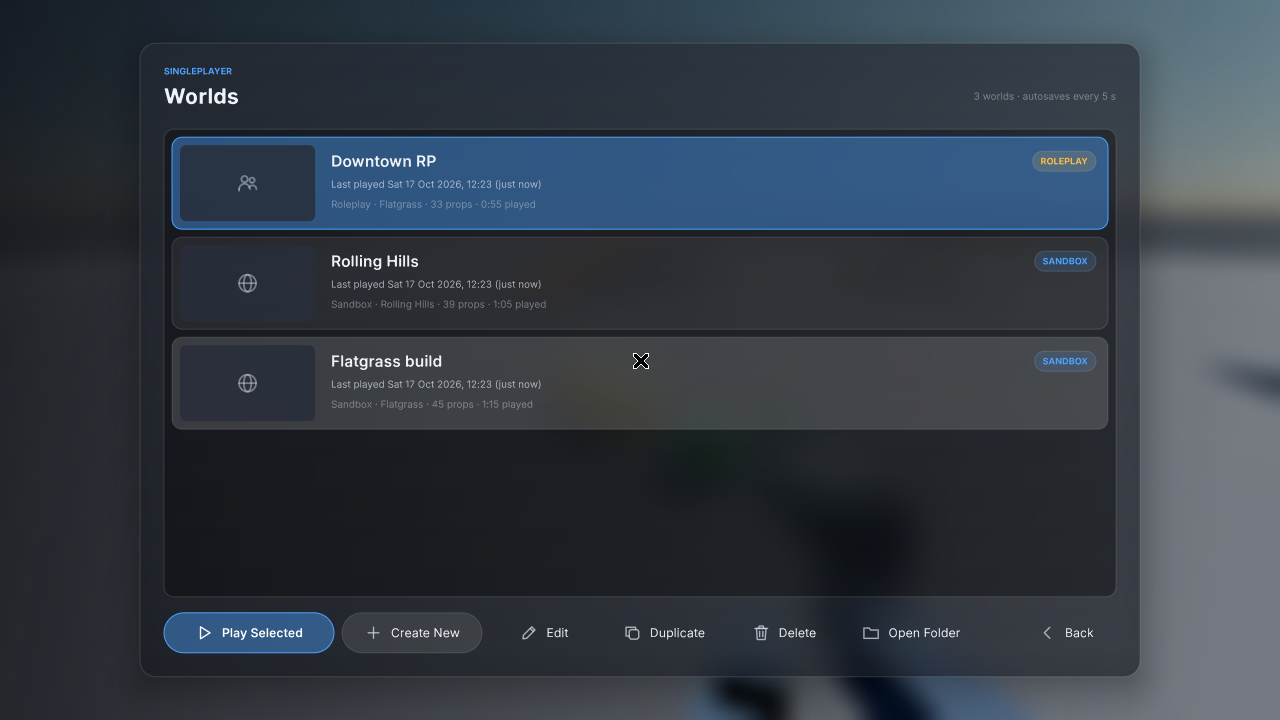
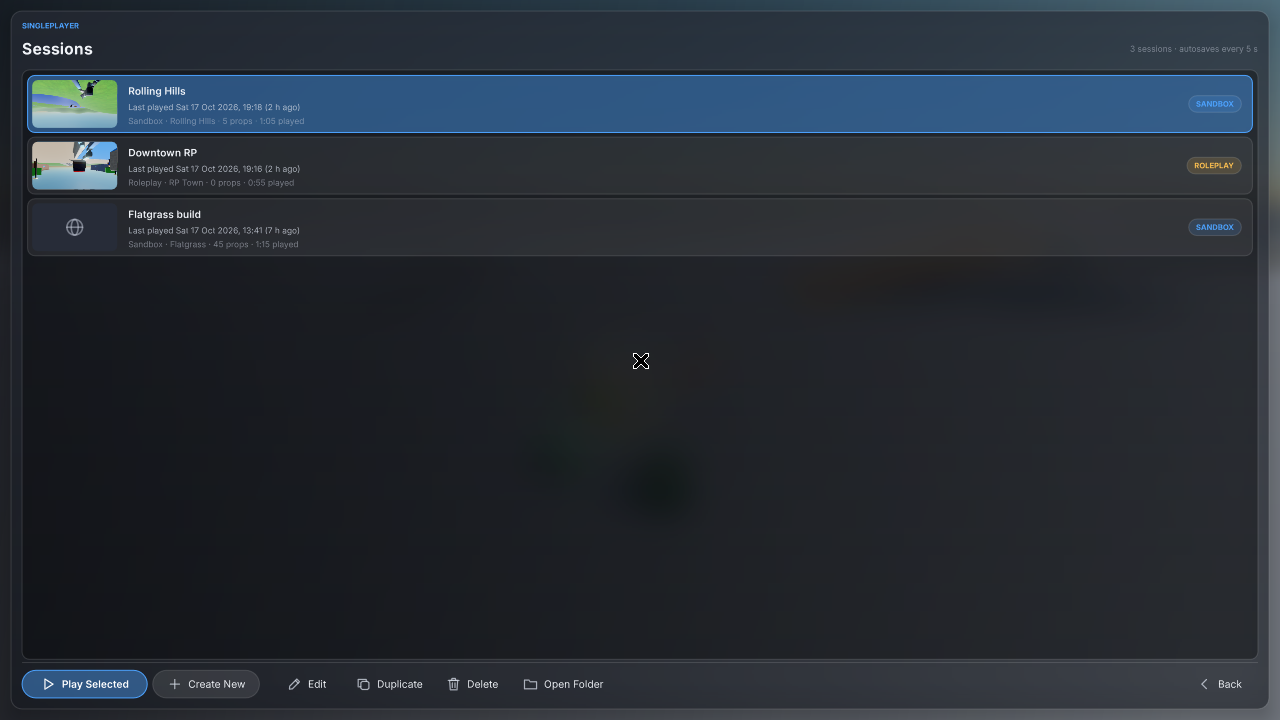
Rename user-facing Worlds to Sessions (menus, buttons, toasts, loading screen, README); save folders and world.json unchanged for compatibility

diff --git a/src/WorldsMenu.cs b/src/WorldsMenu.cs
@@ -5,7 +5,7 @@ using Color = System.Drawing.Color;
 
 namespace Sandbox;
 
-/// <summary>Singleplayer → Worlds list, Create New World, the loading screen and the roleplay F4 menu.</summary>
+/// <summary>Singleplayer → Sessions list, Create New Session, the loading screen and the roleplay F4 menu.</summary>
 public sealed partial class Menus
 {
     private List<WorldEntry>? _worlds;
@@ -40,8 +40,8 @@ public sealed partial class Menus
         float x = mg, y = mg + (1f - Ui.Alpha) * Theme.S(20), pad = Theme.S(Theme.Lg);
         Ui.Glass(paper, "wl_panel", x, y, pw, ph, strong: true).IsNotInteractable();
         Ui.Text(paper, "wl_kick", x + pad, y + pad - Theme.S(4), pw, Theme.S(16), "SINGLEPLAYER", Theme.Micro, Theme.Accent, Theme.Bold);
-        Ui.Text(paper, "wl_title", x + pad, y + pad + Theme.S(12), pw, Theme.S(34), "Worlds", Theme.Heading, Theme.Text, Theme.Bold);
-        Ui.Text(paper, "wl_count", x + pad, y + pad + Theme.S(12), pw - 2 * pad, Theme.S(34), $"{_worlds.Count} world{(_worlds.Count == 1 ? "" : "s")} · autosaves every {SandboxGame.AutosaveInterval:0} s",
+        Ui.Text(paper, "wl_title", x + pad, y + pad + Theme.S(12), pw, Theme.S(34), "Sessions", Theme.Heading, Theme.Text, Theme.Bold);
+        Ui.Text(paper, "wl_count", x + pad, y + pad + Theme.S(12), pw - 2 * pad, Theme.S(34), $"{_worlds.Count} session{(_worlds.Count == 1 ? "" : "s")} · autosaves every {SandboxGame.AutosaveInterval:0} s",
             Theme.Caption, Theme.TextFaint, null, TextAlignment.MiddleRight);
 
         float bh = Theme.S(30), footer = bh + Theme.S(18);
@@ -55,7 +55,7 @@ public sealed partial class Menus
         if (_worlds.Count == 0)
         {
             Ui.Icon(paper, "wl_empty_ic", x + pad + lw / 2f - Theme.S(20), ly + lh / 2f - Theme.S(54), Theme.S(40), Icon.Globe, Theme.TextFaint);
-            Ui.Text(paper, "wl_empty", x + pad, ly + lh / 2f - Theme.S(6), lw, Theme.S(24), "No worlds yet", Theme.Title, Theme.TextMuted, Theme.SemiBold, TextAlignment.MiddleCenter);
+            Ui.Text(paper, "wl_empty", x + pad, ly + lh / 2f - Theme.S(6), lw, Theme.S(24), "No sessions yet", Theme.Title, Theme.TextMuted, Theme.SemiBold, TextAlignment.MiddleCenter);
             Ui.Text(paper, "wl_empty2", x + pad, ly + lh / 2f + Theme.S(20), lw, Theme.S(20), "Create one to start building. It saves itself as you play.", Theme.Body, Theme.TextFaint, null, TextAlignment.MiddleCenter);
         }
         using (paper.Box("wl_list").PositionType(PositionType.SelfDirected).Position(x + pad, ly).Size(lw, lh).Clip()
@@ -157,8 +157,8 @@ public sealed partial class Menus
         float bh = Theme.S(38);
         if (_modal == "rename")
         {
-            Ui.Text(paper, "wm_t", mx + pad, my + pad, mw, Theme.S(26), "Rename world", Theme.Title, Theme.Text, Theme.Bold);
-            TextInput(paper, "wm_name", mx + pad, my + pad + Theme.S(40), mw - 2 * pad, Theme.S(40), _renameText, v => _renameText = v, "World name");
+            Ui.Text(paper, "wm_t", mx + pad, my + pad, mw, Theme.S(26), "Rename session", Theme.Title, Theme.Text, Theme.Bold);
+            TextInput(paper, "wm_name", mx + pad, my + pad + Theme.S(40), mw - 2 * pad, Theme.S(40), _renameText, v => _renameText = v, "Session name");
             Ui.Button(paper, "wm_ok", mx + mw - pad - Theme.S(110), my + mh - pad - bh, Theme.S(110), bh, "Save", () => g.Enqueue(() =>
             {
                 try { var r = Worlds.Rename(sel, _renameText); RefreshWorlds(); _selected = Math.Max(0, _worlds!.FindIndex(x => x.Folder == r.Folder)); }
@@ -168,7 +168,7 @@ public sealed partial class Menus
         }
         else
         {
-            Ui.Text(paper, "wm_t", mx + pad, my + pad, mw, Theme.S(26), "Delete world?", Theme.Title, Theme.Text, Theme.Bold);
+            Ui.Text(paper, "wm_t", mx + pad, my + pad, mw, Theme.S(26), "Delete session?", Theme.Title, Theme.Text, Theme.Bold);
             Ui.Paragraph(paper, "wm_p", mx + pad, my + pad + Theme.S(34), mw - 2 * pad, Theme.S(44), $"\"{sel.Meta.Name}\" and all of its saves will be permanently deleted. This can't be undone.", Theme.Body, Theme.TextMuted);
             Ui.Button(paper, "wm_ok", mx + mw - pad - Theme.S(120), my + mh - pad - bh, Theme.S(120), bh, "Delete", () => g.Enqueue(() =>
             {
@@ -188,12 +188,12 @@ public sealed partial class Menus
             .TextField(value, Theme.Regular, set, Theme.ToVector(Theme.Text), placeholder, Theme.ToVector(Theme.TextFaint));
     }
 
-    // ---------------------------------------------------------------- Create New World
+    // ---------------------------------------------------------------- Create New Session
 
     private void BeginCreate()
     {
         int n = (_worlds?.Count ?? 0) + 1;
-        _draft = new SessionMeta { Name = $"New World {n}" };
+        _draft = new SessionMeta { Name = $"New Session {n}" };
         _customPath = ""; _createError = null;
         Go(Screen.CreateWorld);
     }
@@ -204,15 +204,15 @@ public sealed partial class Menus
         float x = mg, y = mg + (1f - Ui.Alpha) * Theme.S(20), pad = Theme.S(Theme.Lg);
         Ui.Glass(paper, "cw_panel", x, y, pw, ph, strong: true).IsNotInteractable();
         Ui.Text(paper, "cw_kick", x + pad, y + pad - Theme.S(4), pw, Theme.S(16), "SINGLEPLAYER", Theme.Micro, Theme.Accent, Theme.Bold);
-        Ui.Text(paper, "cw_title", x + pad, y + pad + Theme.S(12), pw, Theme.S(34), "Create New World", Theme.Heading, Theme.Text, Theme.Bold);
+        Ui.Text(paper, "cw_title", x + pad, y + pad + Theme.S(12), pw, Theme.S(34), "Create New Session", Theme.Heading, Theme.Text, Theme.Bold);
 
         float colW = (pw - 2 * pad - Theme.S(28)) / 2f, lx = x + pad, rx = lx + colW + Theme.S(28);
         float cy = y + pad + Theme.S(54);
         SessionMeta d = _draft; WorldModifiers m = d.Modifiers;
 
         void Label(string id, float px, float py, string t) => Ui.Text(paper, id, px, py, colW, Theme.S(18), t, Theme.Caption, Theme.TextMuted, Theme.SemiBold);
-        Label("cw_l_name", lx, cy, "World name");
-        TextInput(paper, "cw_name", lx, cy + Theme.S(20), colW, Theme.S(32), d.Name, v => d.Name = v, "My world");
+        Label("cw_l_name", lx, cy, "Session name");
+        TextInput(paper, "cw_name", lx, cy + Theme.S(20), colW, Theme.S(32), d.Name, v => d.Name = v, "My session");
         cy += Theme.S(64);
         Label("cw_l_mode", lx, cy, "Game mode");
         Ui.Segmented(paper, "cw_mode", lx, cy + Theme.S(20), colW, ["Sandbox", "Roleplay"], d.Mode == "Roleplay" ? 1 : 0, v => d.Mode = v == 1 ? "Roleplay" : "Sandbox");
@@ -231,7 +231,7 @@ public sealed partial class Menus
             Ui.Button(paper, "cw_browse", lx + colW - Theme.S(100), cy, Theme.S(100), Theme.S(40), _browsing ? "…" : "Browse…", () => Browse(g), icon: Icon.Folder, enabled: !_browsing);
             bool okExt = MapBuilder.ImportExtensions.Contains(Path.GetExtension(_customPath).ToLowerInvariant());
             Ui.Text(paper, "cw_path_h", lx, cy + Theme.S(46), colW, Theme.S(18),
-                _customPath.Length == 0 ? "glb, gltf, fbx, obj or vrm. It's copied into the world folder." : !File.Exists(_customPath) ? "File not found" : okExt ? "Ready to import (static mesh colliders are generated)" : "Unsupported file type",
+                _customPath.Length == 0 ? "glb, gltf, fbx, obj or vrm. It's copied into the session folder." : !File.Exists(_customPath) ? "File not found" : okExt ? "Ready to import (static mesh colliders are generated)" : "Unsupported file type",
                 Theme.Caption, _customPath.Length > 0 && (!File.Exists(_customPath) || !okExt) ? Theme.Danger : Theme.TextFaint);
         }
 
@@ -274,14 +274,14 @@ public sealed partial class Menus
         float bh = Theme.S(32), fy = y + ph - pad - bh;
         Ui.Rect(paper, "cw_footer_rule", x + pad, fy - Theme.S(10), pw - 2 * pad, 1f, Theme.Border);
         if (_createError is not null) Ui.Text(paper, "cw_err", x + pad, fy - Theme.S(28), pw - 2 * pad, Theme.S(20), _createError, Theme.Caption, Theme.Danger, Theme.SemiBold);
-        Ui.Button(paper, "cw_create", x + pw - pad - Theme.S(150), fy, Theme.S(150), bh, "Create World", () => g.Enqueue(() => Create(g)), selected: true, icon: Icon.Check, radius: bh / 2f);
+        Ui.Button(paper, "cw_create", x + pw - pad - Theme.S(150), fy, Theme.S(150), bh, "Create Session", () => g.Enqueue(() => Create(g)), selected: true, icon: Icon.Check, radius: bh / 2f);
         Ui.Button(paper, "cw_cancel", x + pw - pad - Theme.S(246), fy, Theme.S(90), bh, "Cancel", () => Go(Screen.Worlds), ghost: true, radius: bh / 2f);
     }
 
     private void Create(SandboxGame g)
     {
         _draft.Name = _draft.Name.Trim();
-        if (_draft.Name.Length == 0) { _createError = "Give the world a name."; return; }
+        if (_draft.Name.Length == 0) { _createError = "Give the session a name."; return; }
         string? src = null;
         if (_draft.Map == "custom")
         {
@@ -295,7 +295,7 @@ public sealed partial class Menus
             RefreshWorlds();
             g.EnterSession(we);
         }
-        catch (Exception e) { _createError = $"Couldn't create the world: {e.Message}"; }
+        catch (Exception e) { _createError = $"Couldn't create the session: {e.Message}"; }
     }
 
     /// <summary>Native file picker on a background task (zenity/kdialog on Linux, osascript on macOS, PowerShell on Windows).</summary>
@@ -346,7 +346,7 @@ public sealed partial class Menus
     [
         "Hold Q to open the spawn menu. Drag anything you spawn with the physics gun.",
         "Right-click with the physics gun to freeze a prop in place.",
-        "The world autosaves every few seconds. Your contraptions keep moving when you come back.",
+        "The session autosaves every few seconds. Your contraptions keep moving when you come back.",
         "Hold C on a prop to change its colour, material and mass.",
         "Press Z to undo your last spawn or weld.",
         "In Roleplay, press F4 to pick a job or buy a money printer.",
@@ -368,7 +368,7 @@ public sealed partial class Menus
 
         float cx = w / 2f, by = h * 0.62f, bw = MathF.Min(Theme.S(560), w * 0.7f);
         DrawLogo(paper, cx - Theme.S(32), h * 0.24f, Theme.S(64), "ld_logo", (float)(l?.Elapsed ?? 0f));
-        string name = g.Session?.Meta.Name ?? "World";
+        string name = g.Session?.Meta.Name ?? "Session";
         Ui.Text(paper, "ld_name", 0, h * 0.24f + Theme.S(80), w, Theme.S(40), name, Theme.Heading + 6, Theme.Text, Theme.Bold, TextAlignment.MiddleCenter);
         if (g.Session is { } s)
             Ui.Text(paper, "ld_sub", 0, h * 0.24f + Theme.S(122), w, Theme.S(20), $"{s.Meta.Mode} · {MapName(s.Meta)} · {s.Meta.PropCount} props", Theme.Body, Theme.TextMuted, null, TextAlignment.MiddleCenter);

diff --git a/src/Menus.cs b/src/Menus.cs
@@ -74,7 +74,7 @@ public sealed partial class Menus
         DrawLogo(paper, x, y + Theme.S(6), logo, "mn_logo", (float)Prowl.Runtime.Time.UnscaledTotalTime);
         Ui.Text(paper, "mn_title", x + logo + Theme.S(16), y, w, Theme.S(76), "Sandbox", Theme.Display, Theme.Text, Theme.Bold);
         Ui.Text(paper, "mn_sub", x, y + Theme.S(76), w, Theme.S(22),
-            paused ? $"{g.Session?.Meta.Name ?? "World"} · {g.Props.Props.Count} props · physics paused" : "Build, break and mess around.",
+            paused ? $"{g.Session?.Meta.Name ?? "Session"} · {g.Props.Props.Count} props · physics paused" : "Build, break and mess around.",
             Theme.Label, Theme.TextMuted);
 
         float by = y + Theme.S(132), bw = Theme.S(280), bh = Theme.S(46), gap = Theme.S(10);
@@ -82,10 +82,10 @@ public sealed partial class Menus
             ?
             [
                 ("Resume", Icon.Play, () => g.Enqueue(() => Go(Screen.Playing))),
-                ("Save now", Icon.Save, () => g.Enqueue(() => { g.SaveSession(true, true); g.Notify("World saved"); })),
+                ("Save now", Icon.Save, () => g.Enqueue(() => { g.SaveSession(true, true); g.Notify("Session saved"); })),
                 ("Clear map", Icon.Trash, () => g.Enqueue(() => { g.ClearMap(); Go(Screen.Playing); })),
                 ("Settings", Icon.Gear, () => Go(Screen.Settings)),
-                ("Save & exit to Worlds", Icon.Back, () => g.Enqueue(() => { g.ExitSession(Screen.Worlds); RefreshWorlds(); })),
+                ("Save & exit to Sessions", Icon.Back, () => g.Enqueue(() => { g.ExitSession(Screen.Worlds); RefreshWorlds(); })),
             ]
             :
             [

diff --git a/src/SpawnMenu.cs b/src/SpawnMenu.cs
@@ -424,8 +424,8 @@ public sealed class SpawnMenu(IconRenderer icons)
         float bw = Theme.S(190), bh = Theme.S(38), gap = Theme.S(Theme.Md);
         Ui.Button(paper, "sm_util_undo", cx, cy, bw, bh, "Undo", () => game.Enqueue(game.Undo), icon: Icon.Undo, radius: bh / 2f);
         Ui.Button(paper, "sm_util_clear", cx + bw + gap, cy, bw, bh, "Clear props", () => game.Enqueue(() => game.ClearMap()), icon: Icon.Trash, radius: bh / 2f);
-        Ui.Button(paper, "sm_util_save", cx + 2 * (bw + gap), cy, bw, bh, game.Session is null ? "Save map" : "Save world",
-            () => game.Enqueue(() => { if (game.Session is null) game.SaveMap(); else { game.SaveSession(true, true); game.Notify("World saved"); } }), icon: Icon.Save, radius: bh / 2f);
+        Ui.Button(paper, "sm_util_save", cx + 2 * (bw + gap), cy, bw, bh, game.Session is null ? "Save map" : "Save session",
+            () => game.Enqueue(() => { if (game.Session is null) game.SaveMap(); else { game.SaveSession(true, true); game.Notify("Session saved"); } }), icon: Icon.Save, radius: bh / 2f);
         cy += bh + Theme.S(Theme.Xl) + cardPad * 2f;
         cy = cardTop;
 

diff --git a/src/Session.cs b/src/Session.cs
@@ -252,7 +252,7 @@ public sealed partial class SandboxGame
             Worlds.WriteAtomic(Path.Combine(folder, "player.json"), JsonSerializer.Serialize(player, Worlds.Json));
             Worlds.WriteAtomic(Path.Combine(folder, "session.json"), metaJson);
         }
-        if (sync) { try { Write(); LastSaveError = null; } catch (Exception e) { LastSaveError = e.Message; Log.Warn($"Save failed: {e.Message}"); Notify($"Couldn't save the world: {e.Message}", ToastKind.Danger); } }
+        if (sync) { try { Write(); LastSaveError = null; } catch (Exception e) { LastSaveError = e.Message; Log.Warn($"Save failed: {e.Message}"); Notify($"Couldn't save the session: {e.Message}", ToastKind.Danger); } }
         else _saveTask = Task.Run(() => { try { Write(); LastSaveError = null; } catch (Exception e) { LastSaveError = e.Message; Log.Warn($"Autosave failed: {e.Message}"); Enqueue(() => Notify($"Autosave failed: {e.Message}", ToastKind.Danger)); } });
     }
 

diff --git a/src/Worlds.cs b/src/Worlds.cs
@@ -25,7 +25,7 @@ public sealed class SessionMeta
 {
     public const int CurrentVersion = 1;
     public int Version { get; set; } = CurrentVersion;
-    public string Name { get; set; } = "New World";
+    public string Name { get; set; } = "New Session";
     public DateTime Created { get; set; } = DateTime.Now;
     public DateTime LastPlayed { get; set; } = DateTime.Now;
     public string Mode { get; set; } = "Sandbox";          // Sandbox | Roleplay
@@ -91,7 +91,7 @@ public static class Worlds
                 SessionMeta? m = JsonSerializer.Deserialize<SessionMeta>(File.ReadAllText(meta));
                 if (m is not null) list.Add(new WorldEntry(dir, m));
             }
-            catch (Exception e) { Log.Warn($"Skipping broken world {dir}: {e.Message}"); }
+            catch (Exception e) { Log.Warn($"Skipping broken session {dir}: {e.Message}"); }
         }
         return list.OrderByDescending(w => w.Meta.LastPlayed).ToList();
     }

diff --git a/README.md b/README.md
@@ -15,8 +15,8 @@ A small Garry's Mod-style physics sandbox in C# on the [Prowl](https://github.co
 | ![Vehicles](docs/r7-garage.png) | ![Model props](docs/r6-models.png) |
 | ![Dupes](docs/r7-dupes.png) | ![User spawnlist](docs/r7-myspawn.png) |
 | ![Tools](docs/r7-tools-scroll.png) | ![ATM bank](docs/r7-bank.png) |
-| ![Main menu](docs/r5-main.png) | ![Worlds](docs/r5-worlds.png) |
-| ![Create world](docs/r5-create.png) | ![Loading](docs/r5-loading.png) |
+| ![Main menu](docs/r5-main.png) | ![Sessions](docs/r5-worlds.png) |
+| ![Create session](docs/r5-create.png) | ![Loading](docs/r5-loading.png) |
 | ![Roleplay HUD](docs/r5-rp.png) | ![F4 jobs menu](docs/r5-jobs.png) |
 | ![Rolling Hills](docs/r5-hills.png) | ![Dusk](docs/r5-dusk.png) |
 | ![Utilities](docs/r5-utilities.png) | ![Video settings](docs/r5-video.png) |
@@ -74,17 +74,17 @@ Build macOS on a Mac when you can, because `build-all.sh` ad-hoc codesigns the `
 
 The first build downloads Prowl's NuGet dependencies, so it needs internet and takes a minute or two.
 
-## Worlds (Singleplayer)
+## Sessions (Singleplayer)
 
-**Main menu → Singleplayer** opens the Worlds list, which works like Minecraft's world list. Each row shows a thumbnail, name, when you last played it, the mode, the map, the prop count and how long you've played. The buttons are **Play Selected** (or double-click a row), **Create New**, **Edit** (rename), **Duplicate**, **Delete** (asks you to confirm) and **Open Folder**.
+**Main menu → Singleplayer** opens the Sessions list, which works like Minecraft's world list. Each row shows a thumbnail, name, when you last played it, the mode, the map, the prop count and how long you've played. The buttons are **Play Selected** (or double-click a row), **Create New**, **Edit** (rename), **Duplicate**, **Delete** (asks you to confirm) and **Open Folder**.
 
-**Create New World** asks for:
+**Create New Session** asks for:
 - a name
 - a mode: **Sandbox** or **Roleplay**
-- a map: **Flatgrass**, **Rolling Hills** (terrain plus a pond), or **Custom map**. A custom map is a `.glb/.gltf/.fbx/.obj/.vrm` file you pick with *Browse…* (uses zenity/kdialog on Linux) or paste a path to. The file is copied into the world folder and gets static mesh colliders.
-- modifiers: gravity, prop limit, fall damage, day/night cycle and NPCs. Roleplay worlds also have starting money and paid prop spawning.
+- a map: **Flatgrass**, **Rolling Hills** (terrain plus a pond), or **Custom map**. A custom map is a `.glb/.gltf/.fbx/.obj/.vrm` file you pick with *Browse…* (uses zenity/kdialog on Linux) or paste a path to. The file is copied into the session folder and gets static mesh colliders.
+- modifiers: gravity, prop limit, fall damage, day/night cycle and NPCs. Roleplay sessions also have starting money and paid prop spawning.
 
-Each world is a folder under `%AppData%/ProwlSandbox/saves/<name>/` (on Linux, `~/.config/ProwlSandbox/saves`):
+Each session is a folder under `%AppData%/ProwlSandbox/saves/<name>/` (on Linux, `~/.config/ProwlSandbox/saves`):
 
 | File | Contents |
 | --- | --- |
@@ -93,9 +93,9 @@ Each world is a folder under `%AppData%/ProwlSandbox/saves/<name>/` (on Linux, `
 | `player.json` | position, look, noclip, weapon, health and armor; roleplay money, job and laws |
 | `icon.png` | the thumbnail, captured from your view |
 
-The game autosaves every 5 seconds on a background thread. Each write goes to a temp file and is renamed into place, and the previous file is kept as `.bak`; if a file is corrupt, loading falls back to the `.bak`. The game also saves on **Save & exit to Worlds**, on Quit and when you close the window.
+The game autosaves every 5 seconds on a background thread. Each write goes to a temp file and is renamed into place, and the previous file is kept as `.bak`; if a file is corrupt, loading falls back to the `.bak`. The game also saves on **Save & exit to Sessions**, on Quit and when you close the window.
 
-**Loading** a world goes through a loading screen with real progress. It runs these stages: *Loading assets*, *Loading models*, *Loading shaders*, *Building physics*, *Spawning entities (n/N)*, *Restoring player*. File reading happens on a background task. Main-thread work runs in batches of 6 ms per frame, so the window keeps responding.
+**Loading** a session goes through a loading screen with real progress. It runs these stages: *Loading assets*, *Loading models*, *Loading shaders*, *Building physics*, *Spawning entities (n/N)*, *Restoring player*. File reading happens on a background task. Main-thread work runs in batches of 6 ms per frame, so the window keeps responding.
 
 ## Roleplay mode (DarkRP-style)
 
@@ -105,7 +105,7 @@ The HUD adds a wallet/job chip, a salary countdown, a WANTED or ARRESTED badge w
 - **Laws:** edited by the Mayor.
 - **Money:** drop cash; at an ATM, deposit and withdraw from your bank account (bank money is safe when you die).
 
-**RP Town map** (the default for Roleplay worlds): four avenues with sidewalks and crosswalks around a spawn plaza (fountain, benches, the laws board and an ATM), a police station with a jail cell, a general store, three houses, an apartment and a garage.
+**RP Town map** (the default for Roleplay sessions): four avenues with sidewalks and crosswalks around a spawn plaza (fountain, benches, the laws board and an ATM), a police station with a jail cell, a general store, three houses, an apartment and a garage.
 - **Doors:** E opens/closes. Doors marked *for sale* can be bought with **F2** (F2 again sells for half price); **L** locks/unlocks doors you own. Police can lock the station doors. Thieves can pick any locked door with the lockpick (police doors always make you wanted).
 - **Arrests:** police NPCs chase you while you're WANTED and arrest you on contact: a $200 fine and 30 s in the locked jail cell. Leaving early counts as a jailbreak (wanted again).
 - **Wanted:** assaulting citizens/police nearby, lockpicking, jailbreaks, and carrying a gun near police while the laws ban weapons (they warn you first).
@@ -133,7 +133,7 @@ The HUD is deliberately minimal (s&box-style): a small dot crosshair that gets a
 - **NPC health and combat**: NPCs take bullet (headshots ×2), crowbar and explosion damage; kill feed (top right) and optional damage numbers (Settings → Game).
 - **RP lottery**: the Mayor starts a 90 s lottery from the shop; anyone buys $50 tickets, townsfolk join in, the Mayor keeps 10%.
 - **Car Dealer** job and buyable **Buggy** / **Jeep** in the shop (dealers pay 60%).
-- **Getting started**: a five-step tutorial chip for new players in Sandbox worlds (spawn, grab, freeze, weld, drive). Steps complete from what you do; `tutorial reset|skip` in the console. ![](docs/tutorial.png)
+- **Getting started**: a five-step tutorial chip for new players in Sandbox sessions (spawn, grab, freeze, weld, drive). Steps complete from what you do; `tutorial reset|skip` in the console. ![](docs/tutorial.png)
 - **Save fix**: a rope and an elastic band on the same two props no longer turn into an extra rope on every save/load (found by the soak, seed 7).
 - **Kill plane**: anything that falls through the world is removed (whole ragdoll), fixing the soak's "Limb fell out of the world".
 
@@ -141,12 +141,12 @@ The HUD is deliberately minimal (s&box-style): a small dot crosshair that gets a
 
 - **Console** (`` ` ``): `help`, `noclip`, `give <weapon>`, `time <0-24>`, `gravity <m/s²>`, `timescale`, `cleanup`, `spawn <prop> [n]`, `tp x y z`, `pos`, `heal`, `kill`, `weather <preset>`, `achievements`, `hints reset`, `photo`, `screenshot`. Anything that isn't a command is chat. ↑/↓ for history, mouse wheel or PgUp/PgDn to scroll, Esc to close.
 - **Photo mode** (F1) hides the HUD. **F12** saves a PNG of the world (no HUD) to `<AppData>/ProwlSandbox/screenshots/`.
-- **Weather**: Clear, Overcast, Fog, Rain, Storm (with lightning). Pick it in Spawn menu → Utilities or with the console. It blends smoothly and is saved per world.
+- **Weather**: Clear, Overcast, Fog, Rain, Storm (with lightning). Pick it in Spawn menu → Utilities or with the console. It blends smoothly and is saved per session.
 - **Achievements**: 14, two of them Roleplay-only. They unlock with a toast and are saved to `achievements.json` next to `settings.json`.
 - **Recent spawnlist**: the last 12 things you spawned, at the top of the spawn menu's category list.
-- **RP hunger**: hunger drains over about 8 minutes, then you take starvation damage. Buy a Burger or Soda from the F4 shop. A thin bar in the RP chip shows hunger, and it's saved with the world.
+- **RP hunger**: hunger drains over about 8 minutes, then you take starvation damage. Buy a Burger or Soda from the F4 shop. A thin bar in the RP chip shows hunger, and it's saved with the session.
 - **First-time hints**: one small hint at a time, each shown once. Turn them off in Settings → Game, or replay them with `hints reset`.
-- **Stability**: a soak/fuzz harness (`--headless --soak <secs> <seed>`) drove fixes for NaN physics crashes, a ragdoll/no-collide memory leak, save/load mismatches, autosave races and unicode or reserved world names.
+- **Stability**: a soak/fuzz harness (`--headless --soak <secs> <seed>`) drove fixes for NaN physics crashes, a ragdoll/no-collide memory leak, save/load mismatches, autosave races and unicode or reserved session names.
 
 ## Controls
 
@@ -171,7 +171,7 @@ The HUD is deliberately minimal (s&box-style): a small dot crosshair that gets a
 | F2 / L | RP town: buy or sell the door you look at / lock or unlock it |
 | Z | Undo |
 | F3 | FPS counter |
-| Esc | Pause menu: Resume, Save now, Clear map, Settings, Save & exit to Worlds |
+| Esc | Pause menu: Resume, Save now, Clear map, Settings, Save & exit to Sessions |
 
 **Hands (1):** E picks up anything up to 15 kg and carries it in front of you. Left click throws it; E again drops it. With nothing held, left click gives a light shove.
 
@@ -194,7 +194,7 @@ The HUD is deliberately minimal (s&box-style): a small dot crosshair that gets a
 
 **Vehicles tab:** Buggy, Jeep (four-wheel drive) and Airboat (fan-driven hull on skids). Look at it and press E to drive: W/S throttle and brake, A/D steer, Space handbrake, mouse orbits the chase camera, R flips it upright, E gets out.
 
-**Health:** health and armor show bottom-left. Falls faster than about 13 m/s hurt (you can turn this off per world or in Utilities). When you die you respawn after 3 s.
+**Health:** health and armor show bottom-left. Falls faster than about 13 m/s hurt (you can turn this off per session or in Utilities). When you die you respawn after 3 s.
 
 **Utilities tab:** sky presets (Morning, Noon, Golden hour, Dusk, Night), a day/night cycle toggle, gravity and time-scale sliders, noclip, fall damage, heal and save.
 
@@ -207,7 +207,7 @@ The HUD is deliberately minimal (s&box-style): a small dot crosshair that gets a
 
 **Logs and crashes:** the game writes a log to `<app data>/ProwlSandbox/logs/latest.log` and keeps the previous run's log as `previous.log`. An unhandled error writes `crash-<time>.txt` and shows a dialog. If the window can't get an OpenGL 4.1 context, the dialog explains that and says what to update.
 
-**Legacy quicksave:** Utilities → Save map (shown when no world is loaded) writes `quicksave.json`. Everything is saved: props (colour, material, mass, frozen), welds, balloons, ropes, ball-sockets, thrusters, wheels, lights, buttons (with their keys), explosive barrels, bouncy balls, NPC dummies, ragdolls, cameras and buggies. Procedural textures are on by default; set `SANDBOX_PROCTEX=0` to use flat colours instead.
+**Legacy quicksave:** Utilities → Save map (shown when no session is loaded) writes `quicksave.json`. Everything is saved: props (colour, material, mass, frozen), welds, balloons, ropes, ball-sockets, thrusters, wheels, lights, buttons (with their keys), explosive barrels, bouncy balls, NPC dummies, ragdolls, cameras and buggies. Procedural textures are on by default; set `SANDBOX_PROCTEX=0` to use flat colours instead.
 
 ## Adding your own models and sounds
 
@@ -298,7 +298,7 @@ Frame sequences (10 fps) of the pistol and shotgun reloads: [pistol](docs/vm-seq
 dotnet run -- --headless
 ```
 
-This runs the game for about 25 seconds without a window. It scripts spawning, physgun, tools (including elastic pull and hoverball hold), vehicles (buggy, jeep, airboat), weapons, entities, dupes, spawnlists, worlds save/load, the roleplay economy and the RP town (doors, ATM, arrest/jail/jailbreak), prints PASS or FAIL for each, and exits 0 when everything passes. It doesn't test rendering or real mouse/keyboard input.
+This runs the game for about 25 seconds without a window. It scripts spawning, physgun, tools (including elastic pull and hoverball hold), vehicles (buggy, jeep, airboat), weapons, entities, dupes, spawnlists, sessions save/load, the roleplay economy and the RP town (doors, ATM, arrest/jail/jailbreak), prints PASS or FAIL for each, and exits 0 when everything passes. It doesn't test rendering or real mouse/keyboard input.
 
 Soak/fuzz test: `dotnet run -- --headless --soak 300 6` runs random actions for 300 s with seed 6. It checks for exceptions, NaNs, physics explosions, save/load round-trip mismatches and memory growth, prints a report, and exits non-zero if it finds problems.
 
@@ -311,7 +311,7 @@ Soak/fuzz test: `dotnet run -- --headless --soak 300 6` runs random actions for 
 | `src/MapBuilder.cs`, `src/Town.cs` | Maps (Flatgrass, Rolling Hills, RP Town, custom model import), doors/ATM/laws board |
 | `src/ModelProps.cs`, `src/IconRenderer.cs` | Placeholder model props (behind the asset manifest) and spawn-menu thumbnails |
 | `src/ToolsMore.cs`, `src/Dupes.cs`, `src/Vehicles.cs` | Extra tools, contraption dupes + user spawnlists, buggy/jeep/airboat |
-| `src/Worlds.cs`, `src/Session.cs`, `src/WorldsMenu.cs` | World folders, atomic saves, async loader, Worlds/Create/Loading/F4 screens |
+| `src/Worlds.cs`, `src/Session.cs`, `src/WorldsMenu.cs` | Session folders (same `saves/` layout and `world.json` file as before, so old saves load), atomic saves, async loader, Sessions/Create/Loading/F4 screens |
 | `src/Roleplay.cs` | Jobs, economy, printers, shipments, baton/lockpick/medkit |
 | `src/Health.cs`, `src/DayNight.cs` | Health/armor/fall damage/respawn; sky presets and day/night |
 | `src/Meshes.cs` | Procedural bevelled boxes, rounded cylinders, tyres, capsules (placeholders the asset manifest can replace) |
